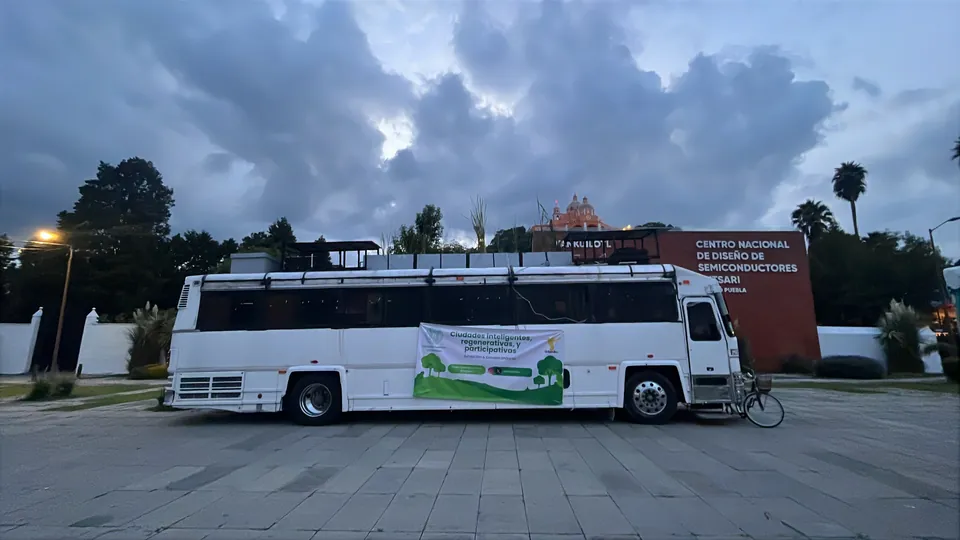
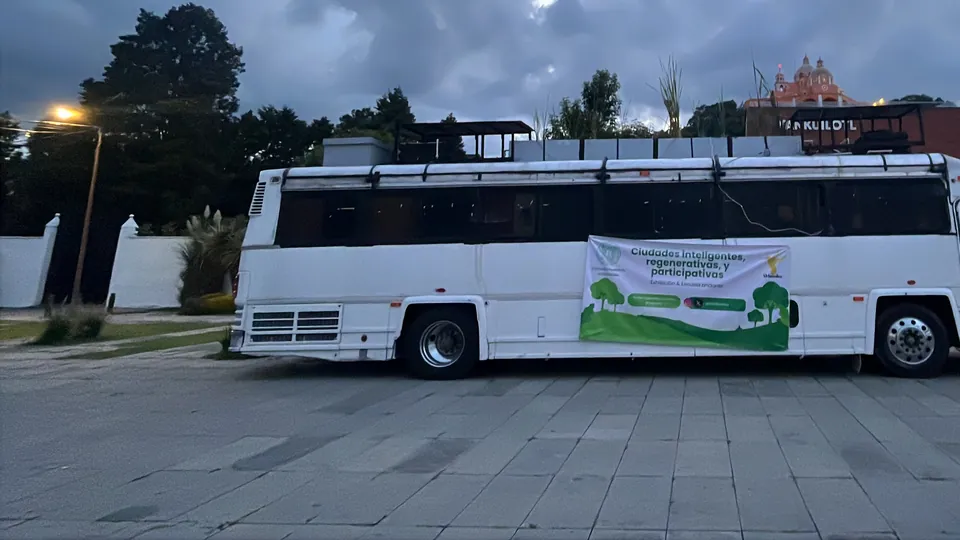
fix(construyamos): pulido hero — verde semantico 450mil papel/65mil acid, scrim asimetrico 105deg, letrero PUEBLA fuera de encuadre (crop 4K x0-2740), kicker balance + tracking menor en foto, cita +contraste, text-wrap balance movil (AG-SPX-CONSTRUYAMOS-06b)

diff --git a/construyamos/construyamos.css b/construyamos/construyamos.css
@@ -50,6 +50,7 @@ button, a, summary { -webkit-tap-highlight-color: transparent; }
 
 /* ---- Base tipográfica ---- */
 .kicker, .section-index { margin: 0 0 24px; text-transform: uppercase; letter-spacing: .16em; font-size: .72rem; font-weight: 700; color: var(--acid); }
+.cjs-hero-photo .kicker { text-wrap: balance; letter-spacing: .14em; }
 .section-index { color: #8f9b8d; }
 section h2 { margin: 0; font-size: clamp(2.6rem, 5vw, 5.2rem); line-height: .96; letter-spacing: -.055em; text-wrap: balance; }
 h1 em, h2 em { font-family: Georgia, 'Times New Roman', serif; font-weight: 400; color: var(--acid); font-style: italic; }
@@ -69,15 +70,18 @@ h1 em, h2 em { font-family: Georgia, 'Times New Roman', serif; font-weight: 400;
 /* ---- Hero (foto full-bleed del bus, hora azul) ---- */
 .cjs-hero-photo { position: relative; display: block; min-height: 100svh; padding: 0; overflow: hidden; border-bottom: 1px solid var(--line); background: var(--ink); }
 .cjs-hero-bg { position: absolute; inset: 0; }
-.cjs-hero-bg img { width: 100%; height: 100%; object-fit: cover; object-position: center 62%; }
-.cjs-hero-scrim { position: absolute; inset: 0; background: linear-gradient(180deg, rgba(11,16,12,.82) 0%, rgba(11,16,12,.55) 38%, rgba(11,16,12,.24) 70%, rgba(11,16,12,.55) 100%); }
+.cjs-hero-bg img { width: 100%; height: 100%; object-fit: cover; object-position: 58% 62%; }
+.cjs-hero-scrim { position: absolute; inset: 0; background: linear-gradient(105deg, rgba(11,16,12,.88) 0%, rgba(11,16,12,.74) 30%, rgba(11,16,12,.40) 58%, rgba(11,16,12,.12) 82%, rgba(11,16,12,.05) 100%); }
 .cjs-hero-inner { position: relative; z-index: 2; display: flex; flex-direction: column; justify-content: center; min-height: 100svh; padding: 150px 0 110px; }
 .cjs-hero-photo .kicker { margin-bottom: 28px; }
 .cjs-hero-photo h1 { margin: 0; max-width: 1100px; font-size: clamp(2.4rem, 5.6vw, 5.6rem); line-height: 1.04; letter-spacing: -.045em; font-weight: 700; }
 .cjs-h1-line { display: block; text-wrap: balance; }
 .cjs-h1-line2 { margin-top: .12em; }
-.cjs-h1-num { display: inline-block; font-family: Georgia, serif; font-size: 1.28em; line-height: 1; color: var(--acid); white-space: nowrap; letter-spacing: -.02em; }
-.cjs-hero-photo .cjs-hero-cite { margin: 20px 0 0; font-size: .82rem; color: #c9cfbe; }
+.cjs-h1-num { display: inline-block; font-family: Georgia, serif; font-size: 1.28em; line-height: 1; white-space: nowrap; letter-spacing: -.02em; }
+/* Verde semántico: 450 mil = la herida (papel neutro, grande); 65 mil = la oportunidad (lima) */
+.cjs-h1-line .cjs-h1-num { color: var(--paper); }
+.cjs-h1-line2 .cjs-h1-num { color: var(--acid); }
+.cjs-hero-photo .cjs-hero-cite { margin: 20px 0 0; font-size: .82rem; color: #d5dbca; }
 .cjs-hero-photo .cjs-hero-question { margin: 44px 0 0; font-family: Georgia, serif; font-style: italic; font-size: clamp(1.7rem, 3.4vw, 2.8rem); line-height: 1.1; color: var(--acid); }
 .cjs-hero-photo .cjs-hero-lead { max-width: 700px; margin: 20px 0 0; font-size: clamp(1.06rem, 1.6vw, 1.33rem); line-height: 1.55; color: #e7e9dd; text-wrap: pretty; }
 .cjs-hero-photo .cjs-hero-lead strong { color: var(--paper); }
@@ -350,6 +354,7 @@ footer a:hover, footer a:focus-visible { color: var(--acid); border-color: curre
   section h2 { font-size: clamp(2.2rem, 10vw, 3.2rem); }
   .cjs-hero-inner { min-height: auto; padding-top: 120px; padding-bottom: 80px; }
   .cjs-hero-photo h1 { font-size: clamp(2.2rem, 9vw, 4rem); }
+  .cjs-h1-line { text-wrap: balance; }
   .cjs-hero-photo .cjs-hero-question { font-size: clamp(1.5rem, 7vw, 2.4rem); }
   .cjs-hero-actions { flex-direction: column; align-items: flex-start; gap: 6px; }
   .button { width: 100%; }
